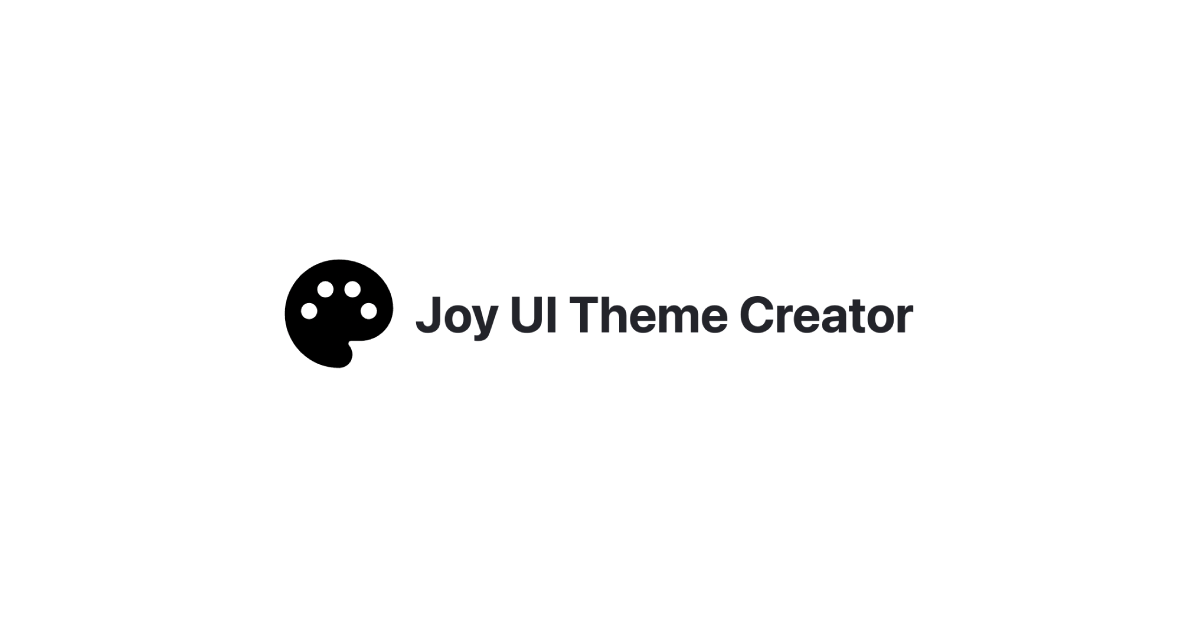
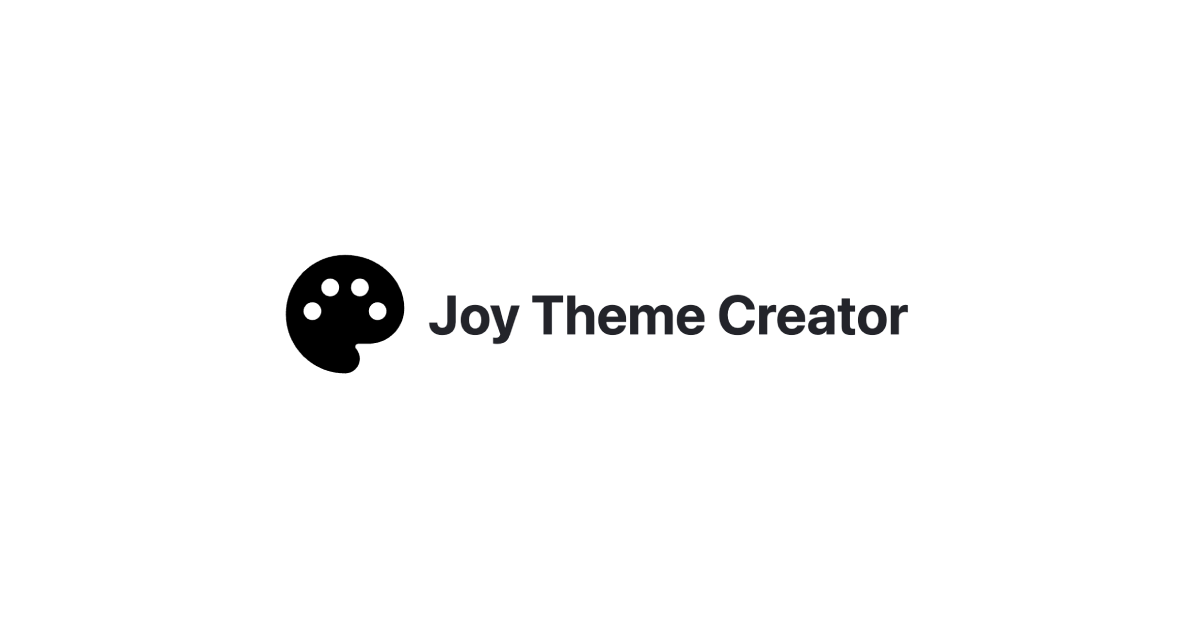
Update name

Changed region(s): [[0.2467, 0.3921, 0.7708, 0.5429], [0.2467, 0.5429, 0.3083, 0.6032]]

diff --git a/src/components/Header.tsx b/src/components/Header.tsx
@@ -62,7 +62,7 @@ const Header = () => {
       >
         <PaletteIcon />
         <Typography component="h1" fontWeight="xl">
-          Joy UI Theme Creator
+          Joy Theme Creator
         </Typography>
         <Typography component="span" level="body4">
           @mui/joy@{joyVersion}
